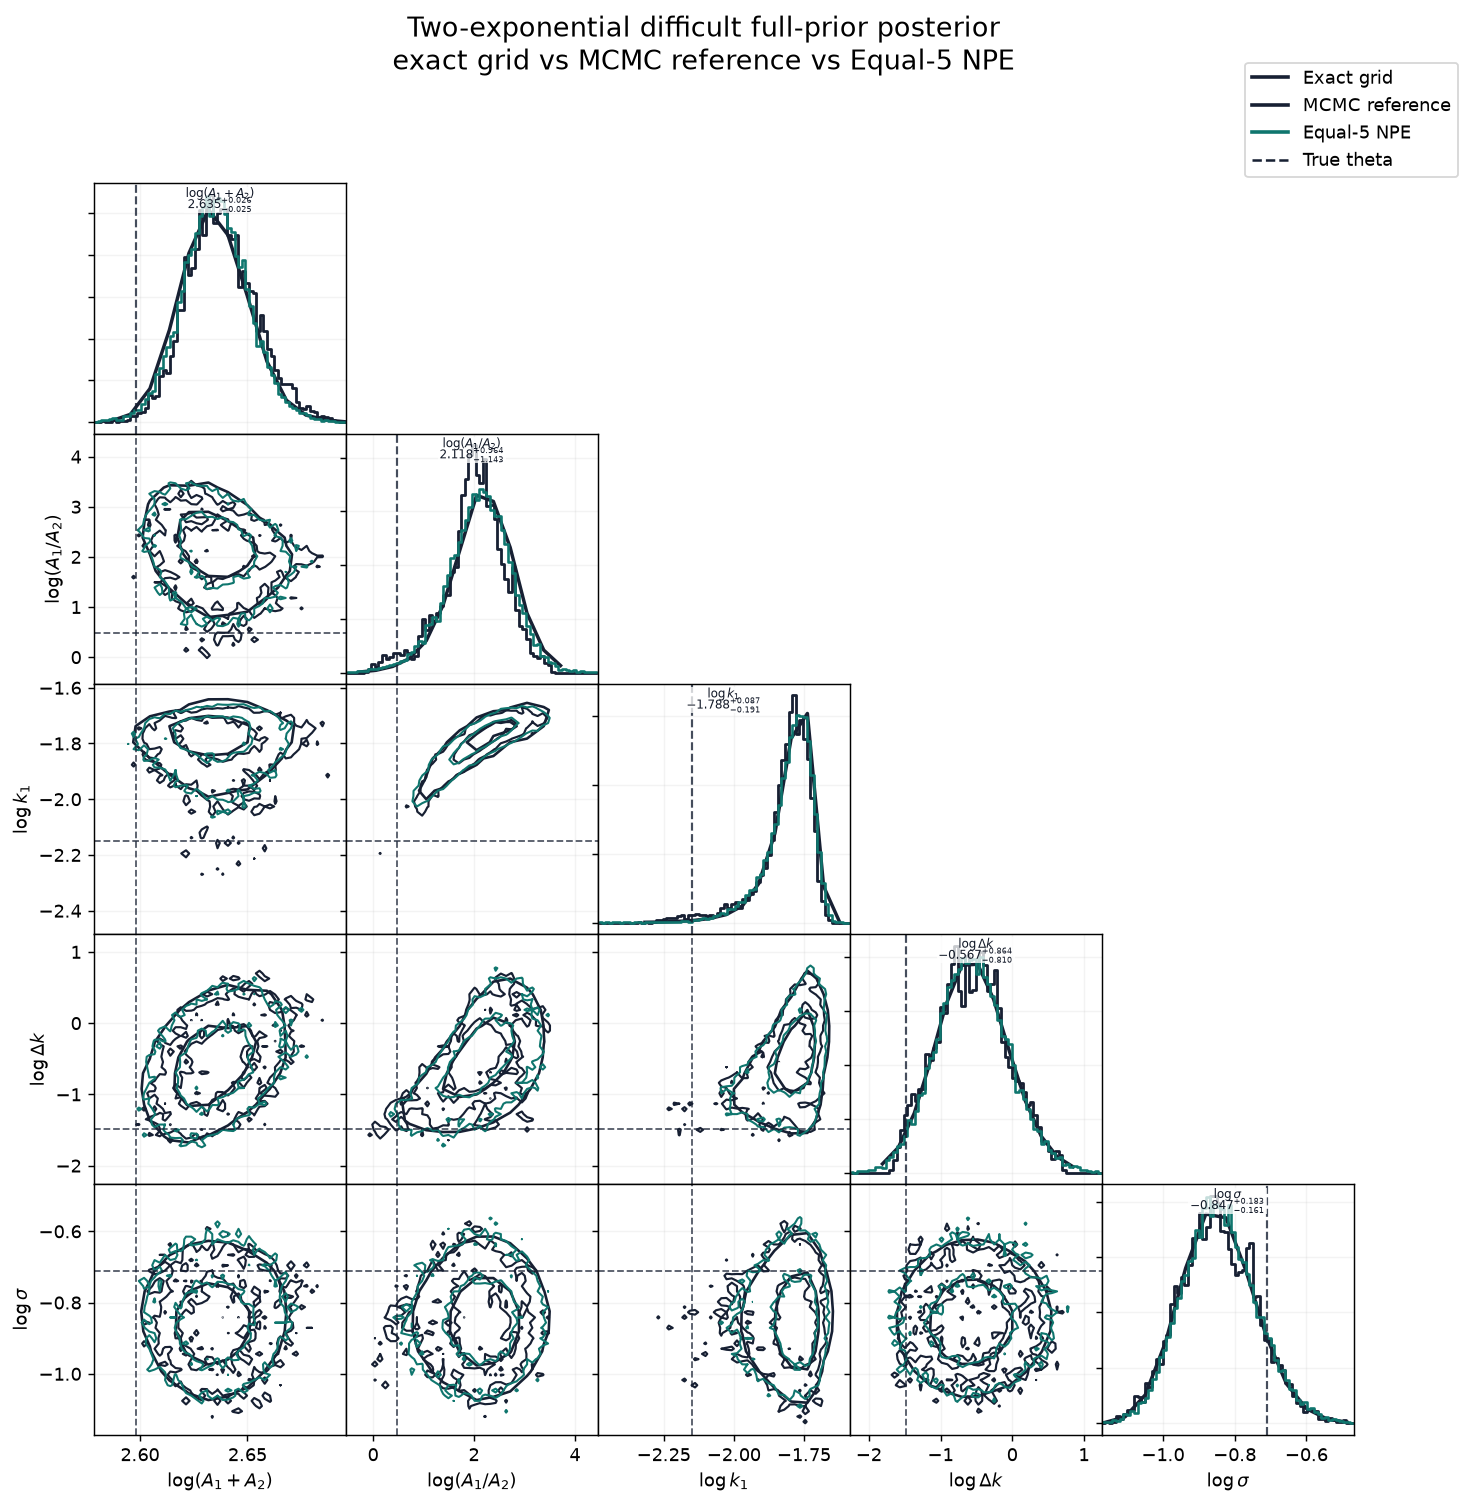
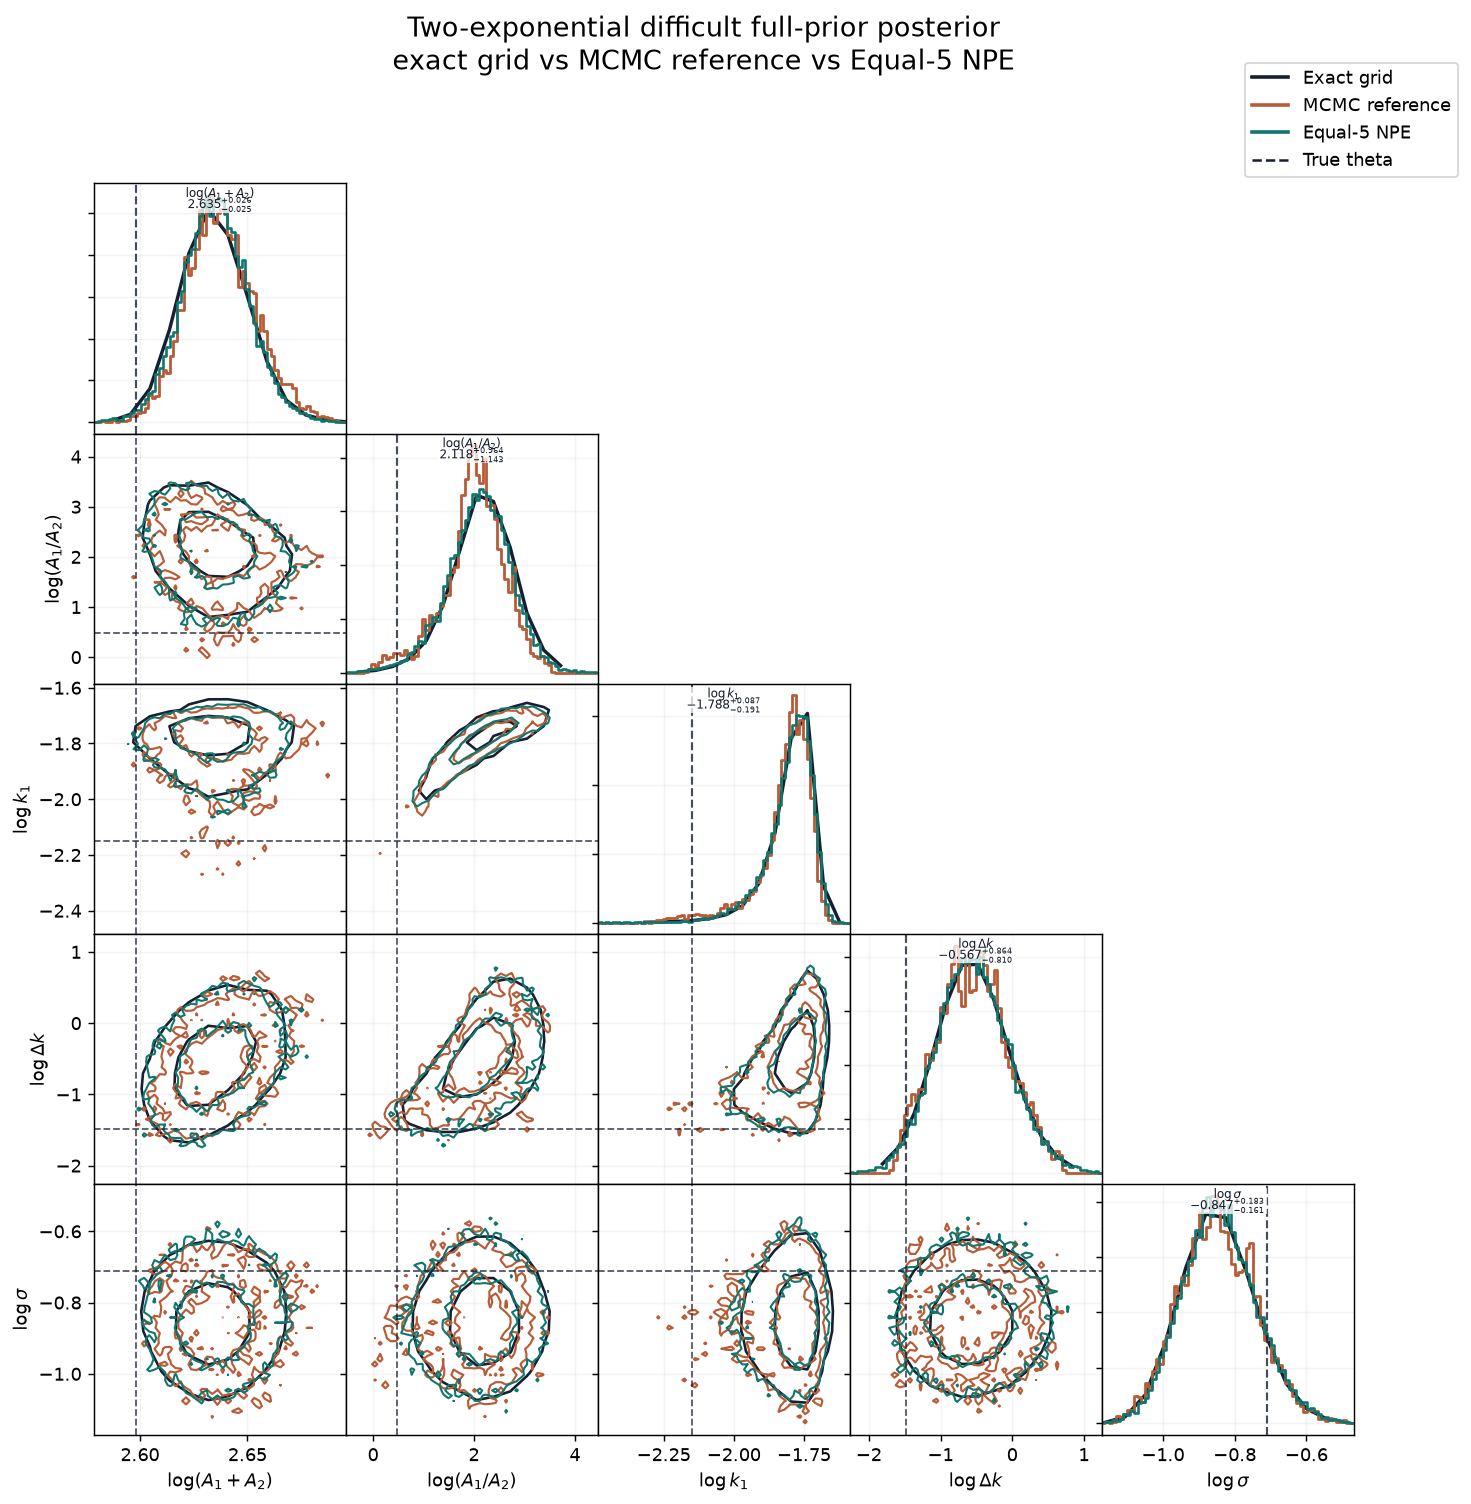
Distinguish two-exp MCMC color

diff --git a/scripts/render_decay_readme_posteriors.py b/scripts/render_decay_readme_posteriors.py
@@ -1645,6 +1645,7 @@ def render_two_exp_population_cases(args: argparse.Namespace) -> None:
                 proposal_inflation=float(args.two_exp_proposal_inflation),
             )
             reference_label = "Importance reference"
+            reference_color = "#6d5bd0"
         else:
             reference_samples, reference_metadata = sample_two_exp_mcmc_reference(
                 x_raw=np.asarray(case_info["x_raw"], dtype=np.float64),
@@ -1656,6 +1657,7 @@ def render_two_exp_population_cases(args: argparse.Namespace) -> None:
                 seed=int(args.seed) + 5000 + 101 * offset,
             )
             reference_label = "MCMC reference"
+            reference_color = "#b85c38"
         grid_layer, grid_metadata = two_exp_exact_grid_layer(
             x_raw=np.asarray(case_info["x_raw"], dtype=np.float64),
             reference_samples=reference_samples,
@@ -1695,7 +1697,7 @@ def render_two_exp_population_cases(args: argparse.Namespace) -> None:
             sample_layers=[
                 SampleCornerLayer(
                     reference_label,
-                    "#172033",
+                    reference_color,
                     reference_samples,
                     hist_lw=1.55,
                     contour_lw=1.20,